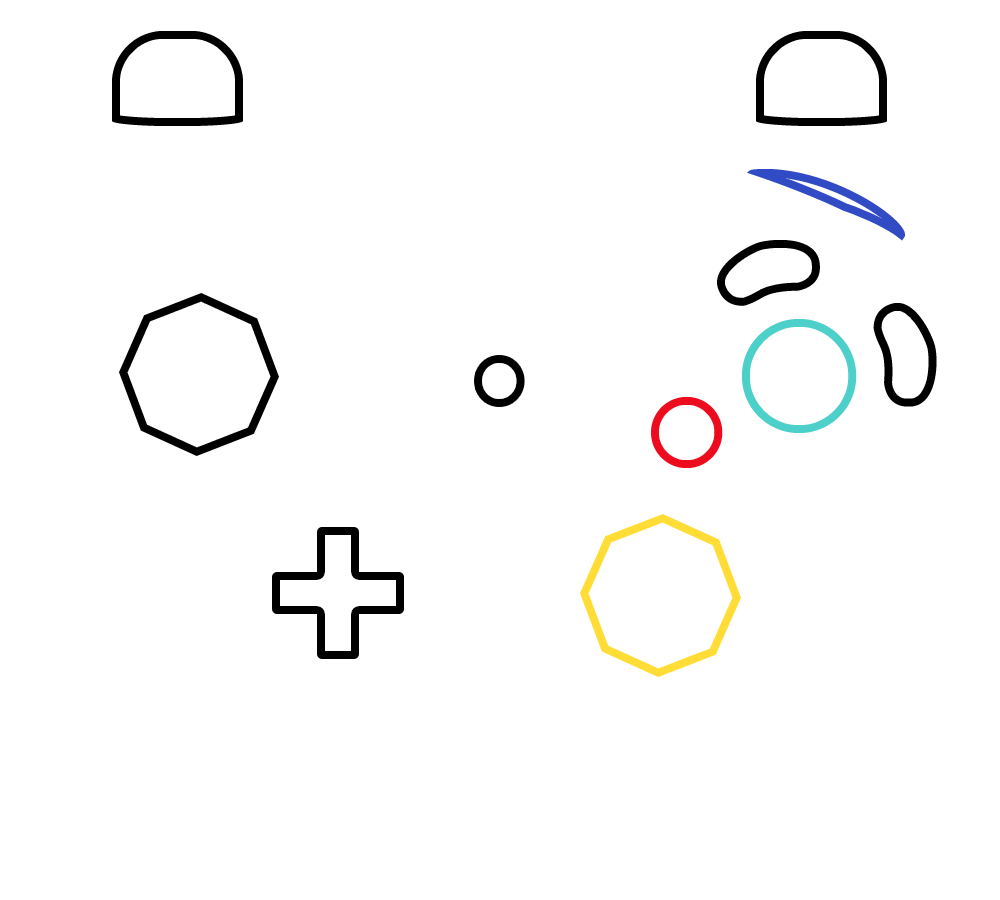
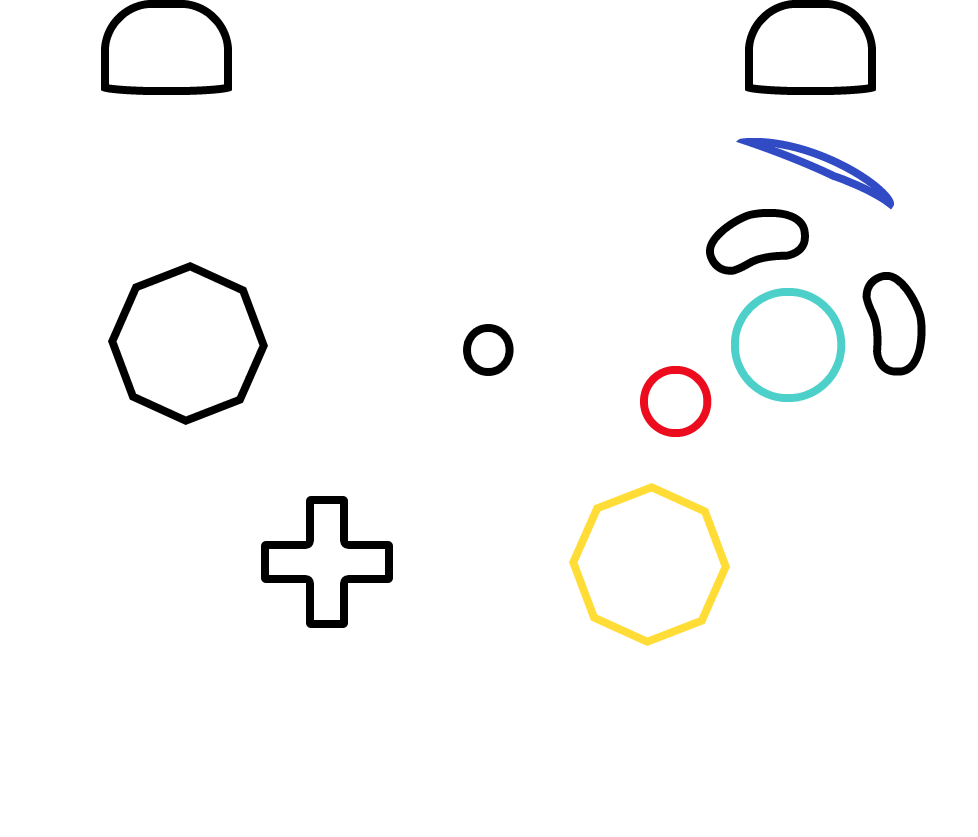
Add files via upload

diff --git a/minimalist black/style.css b/minimalist black/style.css
@@ -1,8 +1,8 @@
 /*BEGIN GameCube Controller Styling*/
 .controller.gc {
     background: url(base.png) no-repeat;
-    height: 900px;
-    width: 1000px;
+    height: 979px;
+    width: 837px;
 }
 
 .gc .triggers {
